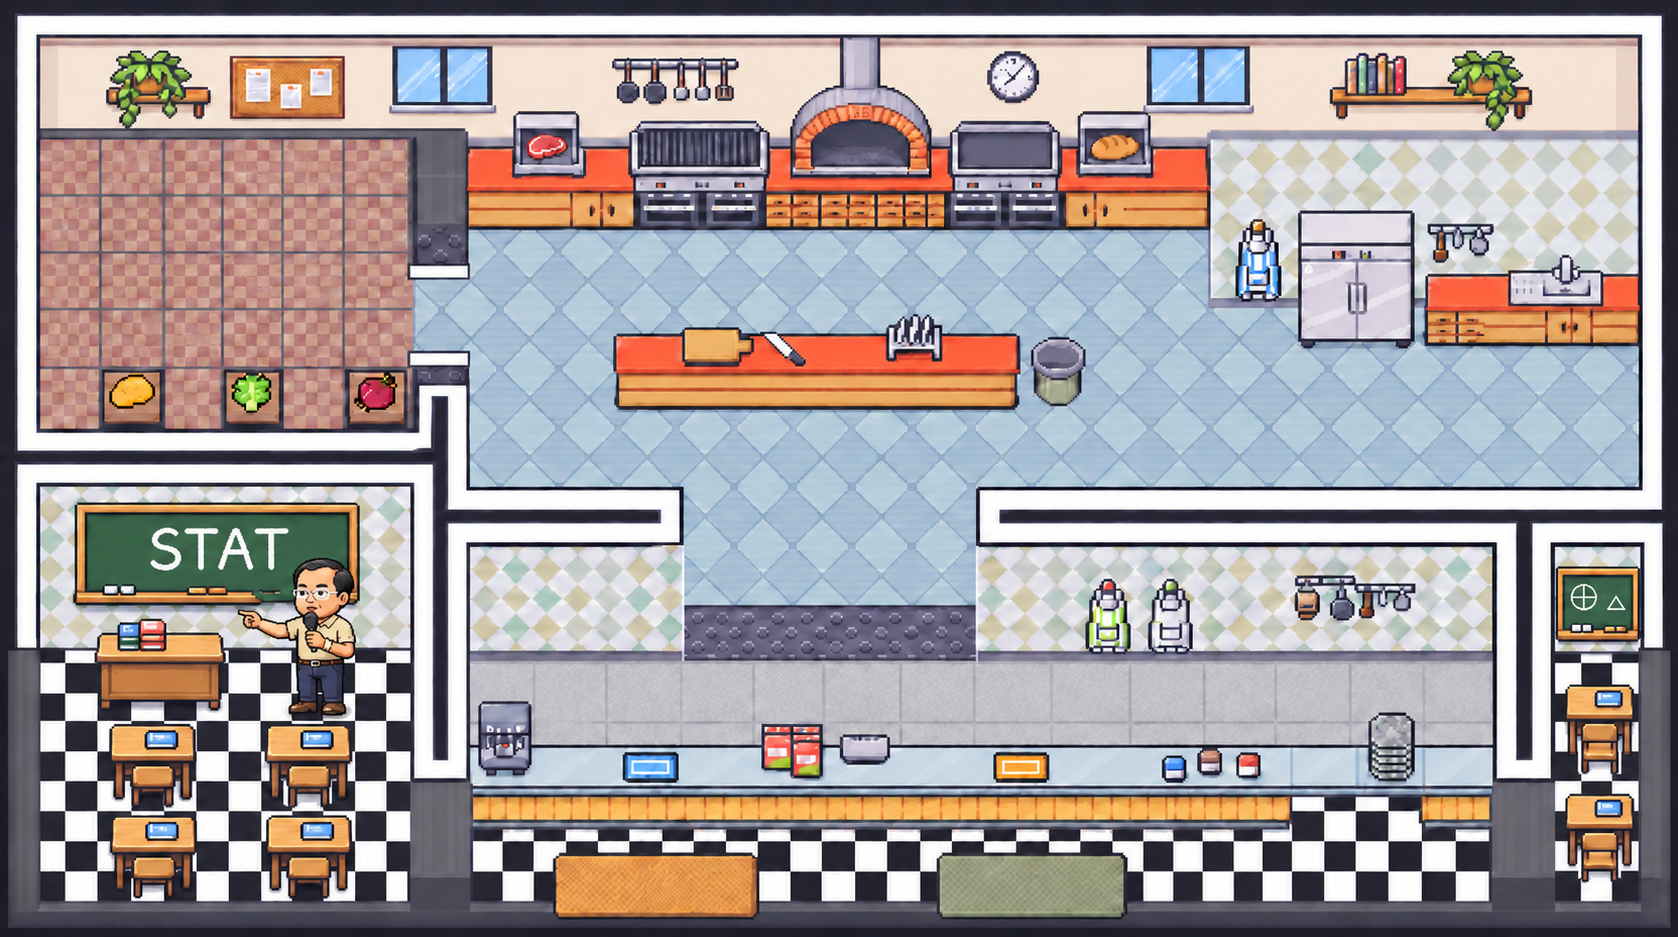
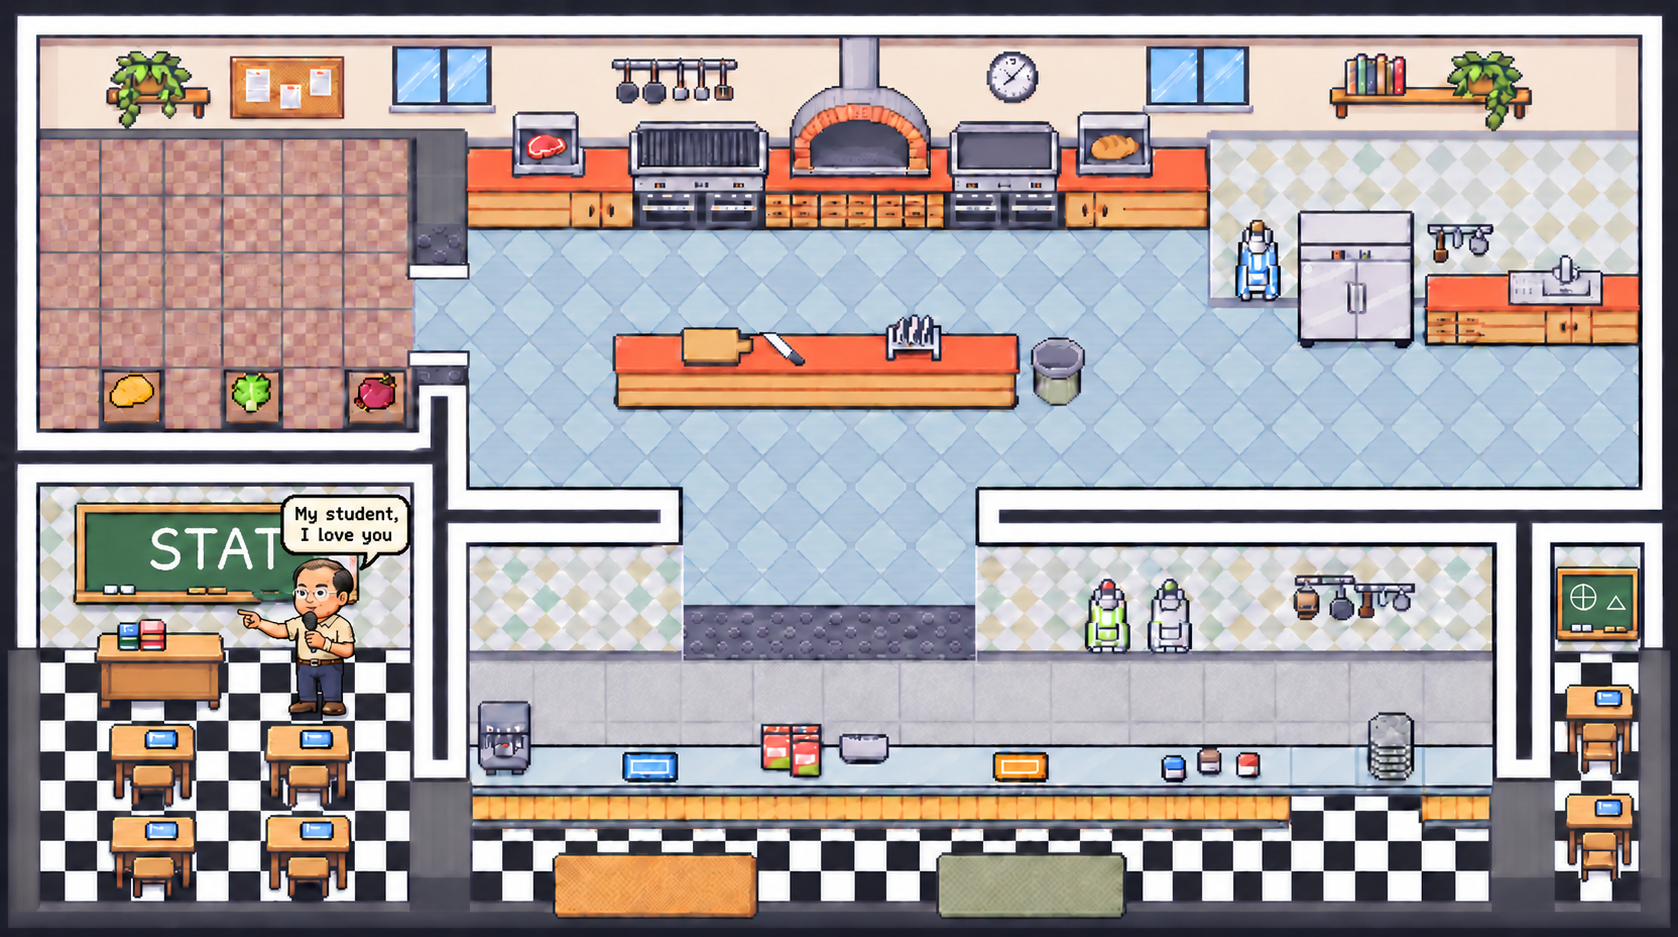
feat(character): create Phong character

diff --git a/frontend/src/game/KitchenScene.js b/frontend/src/game/KitchenScene.js
@@ -185,7 +185,8 @@ const CHEF_FOOT_OFFSET = 9;
 const CHEF_ROW = { down: 0, up: 1, side: 2 };
 
 function createChefAnims(scene, key) {
-  Object.entries(CHEF_ROW).forEach(([dir, row]) => {
+  const rows = key === "chef-phong" ? { ...CHEF_ROW, "side-right": 3 } : CHEF_ROW;
+  Object.entries(rows).forEach(([dir, row]) => {
     const base = row * 4;
 
     if (!scene.anims.exists(`${key}-idle-${dir}`)) {
@@ -208,6 +209,12 @@ function createChefAnims(scene, key) {
       });
     }
   });
+}
+
+function chefAnimationKey(key, moving, facing, flipped) {
+  // Phong has separate side profiles to preserve his single earring.
+  const direction = key === "chef-phong" && facing === "side" && flipped ? "side-right" : facing;
+  return `${key}-${moving ? "walk" : "idle"}-${direction}`;
 }
 
 function heldItemOffset(facing, facingRight) {
@@ -1307,6 +1314,8 @@ export function createKitchenScene({
 
         if (other.facing === "side") {
           other.player.setFlipX(mdx > 0);
+        } else {
+          other.player.setFlipX(false);
         }
       }
 
@@ -1992,6 +2001,8 @@ export function createKitchenScene({
 
       if (moving && p.facing === "side") {
         p.sprite.setFlipX(dx > 0);
+      } else if (p.facing !== "side") {
+        p.sprite.setFlipX(false);
       }
 
       p.sprite.x = Math.round(p.body.x);
@@ -2001,7 +2012,7 @@ export function createKitchenScene({
       p.shadow.y = p.body.y + 8;
 
       p.sprite.anims.play(
-        `${p.spriteKey}-${moving ? "walk" : "idle"}-${p.facing}`,
+        chefAnimationKey(p.spriteKey, moving, p.facing, p.sprite.flipX),
         true,
       );
     }
@@ -2047,7 +2058,7 @@ export function createKitchenScene({
         other.shadow.y = Math.round(other.curY + 8);
 
         other.player.anims.play(
-          `${other.spriteKey}-${moving ? "walk" : "idle"}-${other.facing}`,
+          chefAnimationKey(other.spriteKey, moving, other.facing, other.player.flipX),
           true,
         );
       });

diff --git a/frontend/src/components/CharacterPicker.css b/frontend/src/components/CharacterPicker.css
@@ -1,6 +1,6 @@
 .character-picker { border:0; padding:0; margin:20px 0; min-width:0; color:inherit; }
 .character-picker legend { font-weight:700; margin-bottom:12px; }
-.character-cards { display:grid; grid-template-columns:repeat(3,minmax(0,1fr)); gap:10px; }
+.character-cards { display:grid; grid-template-columns:repeat(4,minmax(0,1fr)); gap:10px; }
 .character-card { display:flex; flex-direction:column; align-items:center; gap:5px; padding:12px 6px; border:2px solid #ffffff25; border-radius:16px; background:#142d32; color:#fff; cursor:pointer; font:inherit; }
 .character-card img { width:90px; height:112px; object-fit:contain; image-rendering:pixelated; }
 .character-card small { color:#cbd5df; font-size:11px; }
@@ -18,4 +18,5 @@
 .story-character-lineup { display:flex; align-items:center; gap:12px; flex-wrap:wrap; font-size:12px; }
 .story-character-lineup span { display:flex; align-items:center; gap:6px; }
 .story-character-lineup img { width:28px; height:35px; object-fit:contain; image-rendering:pixelated; }
+@media(max-width:540px) { .character-cards { grid-template-columns:repeat(2,minmax(0,1fr)); } }
 @media(max-width:440px) { .character-card img { width:68px; height:88px; } .character-card small { display:none; } .character-offline-panel { padding:16px; } }

diff --git a/frontend/src/game/characters.js b/frontend/src/game/characters.js
@@ -4,11 +4,14 @@ import sage from "../assets/characters/sage.png";
 import pepperPortrait from "../assets/characters/pepper-portrait.png";
 import mintPortrait from "../assets/characters/mint-portrait.png";
 import sagePortrait from "../assets/characters/sage-portrait.png";
+import phong from "../assets/characters/phong.png";
+import phongPortrait from "../assets/characters/phong-portrait.png";
 
 export const CHARACTERS = [
   { id: "pepper", name: "Pepper", description: "Đầu bếp năng động", sheet: pepper, portrait: pepperPortrait, spriteKey: "chef-pepper", color: "#f47b68" },
   { id: "mint", name: "Mint", description: "Cô nàng khéo tay", sheet: mint, portrait: mintPortrait, spriteKey: "chef-mint", color: "#51c6ae" },
   { id: "sage", name: "Sage", description: "Bếp trưởng kỳ cựu", sheet: sage, portrait: sagePortrait, spriteKey: "chef-sage", color: "#b4a0ed" },
+  { id: "phong", name: "Phong", description: "Chàng trai áo xanh", sheet: phong, portrait: phongPortrait, spriteKey: "chef-phong", color: "#36c8de" },
 ];
 export const getCharacter = (id) => CHARACTERS.find((character) => character.id === id) || CHARACTERS[0];
 export function readCharacter(slot = "p1") {

diff --git a/backend/src/classes/characterStore.js b/backend/src/classes/characterStore.js
@@ -2,7 +2,7 @@ import fs from "node:fs";
 import path from "node:path";
 import { fileURLToPath } from "node:url";
 
-export const CHARACTER_IDS = Object.freeze(["pepper", "mint", "sage"]);
+export const CHARACTER_IDS = Object.freeze(["pepper", "mint", "sage", "phong"]);
 export const normalizeCharacter = (id) => CHARACTER_IDS.includes(id) ? id : "pepper";
 
 // Separate from rounds so returning to the lobby and reconnecting keep the choice.

diff --git a/tools/prepare_characters.py b/tools/prepare_characters.py
@@ -7,13 +7,17 @@ source = Image.open(sys.argv[1]).convert('RGBA')
 target = Path(__file__).resolve().parents[1] / 'frontend/src/assets/characters'
 target.mkdir(parents=True, exist_ok=True)
 frames = []
-for character in range(3):
+asymmetric = '--asymmetric' in sys.argv
+names = [name for name in sys.argv[2:] if name != '--asymmetric'] or ['pepper', 'mint', 'sage']
+row_count = 4 if asymmetric else 3
+columns = 4 * len(names)
+for character in range(len(names)):
     cells = []
-    for row in range(3):
+    for row in range(row_count):
         for col in range(4):
             x = character * 4 + col
-            row_edges = (0, .32, .64, 1)
-            cell = source.crop((round(x*source.width/12), round(row_edges[row]*source.height), round((x+1)*source.width/12), round(row_edges[row+1]*source.height)))
+            row_edges = tuple(index/row_count for index in range(row_count+1)) if len(names) == 1 else (0, .32, .64, 1)
+            cell = source.crop((round(x*source.width/columns), round(row_edges[row]*source.height), round((x+1)*source.width/columns), round(row_edges[row+1]*source.height)))
             # Keep the main connected silhouette, discarding detached generation specks.
             alpha = cell.getchannel('A')
             pixels = alpha.load()
@@ -38,11 +42,11 @@ for character in range(3):
     frames.append(cells)
 
 scale = min(122/max(f.width for c in frames for f in c), 154/max(f.height for c in frames for f in c))
-for name, cells in zip(('pepper', 'mint', 'sage'), frames):
-    sheet = Image.new('RGBA', (512, 480))
+for name, cells in zip(names, frames):
+    sheet = Image.new('RGBA', (512, 160*row_count))
     for index, frame in enumerate(cells):
         frame = frame.resize((round(frame.width*scale), round(frame.height*scale)), Image.Resampling.NEAREST)
         sheet.alpha_composite(frame, ((index%4)*128+(128-frame.width)//2, (index//4)*160+159-frame.height))
     sheet.save(target / f'{name}.png')
     sheet.crop((0, 0, 128, 160)).save(target / f'{name}-portrait.png')
-print('Prepared three 512x480 animation sheets and portraits.')
+print(f'Prepared {len(names)} animation sheets (512x{160*row_count}) and portraits.')

diff --git a/docs/characters.md b/docs/characters.md
@@ -1,6 +1,6 @@
 # Selectable characters
 
-Pepper, Mint and Sage share the same speed, hitbox and controls. Offline story shows a character picker before map selection inside the existing WorldMap page, with separate P1/P2 choices for local co-op. The confirmed lineup is saved with story progress in session storage and remains fixed across maps, returning to the world map and refreshing the page. Starting a new story from Play clears that lineup along with progress. Browser preferences only seed the next story's picker. Direct game links without a confirmed lineup return to the world page to choose first.
+Pepper, Mint, Sage and Phong share the same speed, hitbox and controls. Offline story shows a character picker before map selection inside the existing WorldMap page, with separate P1/P2 choices for local co-op. The confirmed lineup is saved with story progress in session storage and remains fixed across maps, returning to the world map and refreshing the page. Starting a new story from Play clears that lineup along with progress. Browser preferences only seed the next story's picker. Direct game links without a confirmed lineup return to the world page to choose first.
 
 Online players open the picker using the button beside their own name in the lobby before Ready. It stays closed by default; skipping selection uses Pepper for a new room. No character-selection page or frontend route is needed.
 
@@ -11,3 +11,5 @@ Selections are stored separately from round state in `backend/data/characters.js
 Add characters in `frontend/src/game/characters.js` and the backend `CHARACTER_IDS` allowlist. Every sheet is 512×480: four 128×160 frames per row, rows down/up/left, idle/step/idle/step; right-facing uses horizontal flipping. Portraits use the first frame. Generated source art is extracted with `tools/prepare_characters.py`.
 
 Validation: `node tools/test-characters.mjs`, `node tools/test-item-interaction.mjs`, and `npm run build` in `frontend`.
+
+Phong uses a teal polo, cream trousers and parted brown hair based on the provided reference photographs. Phong wears a single stud on his anatomical left ear (viewer-right in front view). His sheet is 512×640: the third row is the studded left profile and the fourth row is a bare-ear left-oriented profile mirrored for right-facing movement. Front and back views explicitly clear horizontal flipping so walking sideways cannot swap the stud. Prepare it with `python tools/prepare_characters.py <source.png> phong --asymmetric`.
